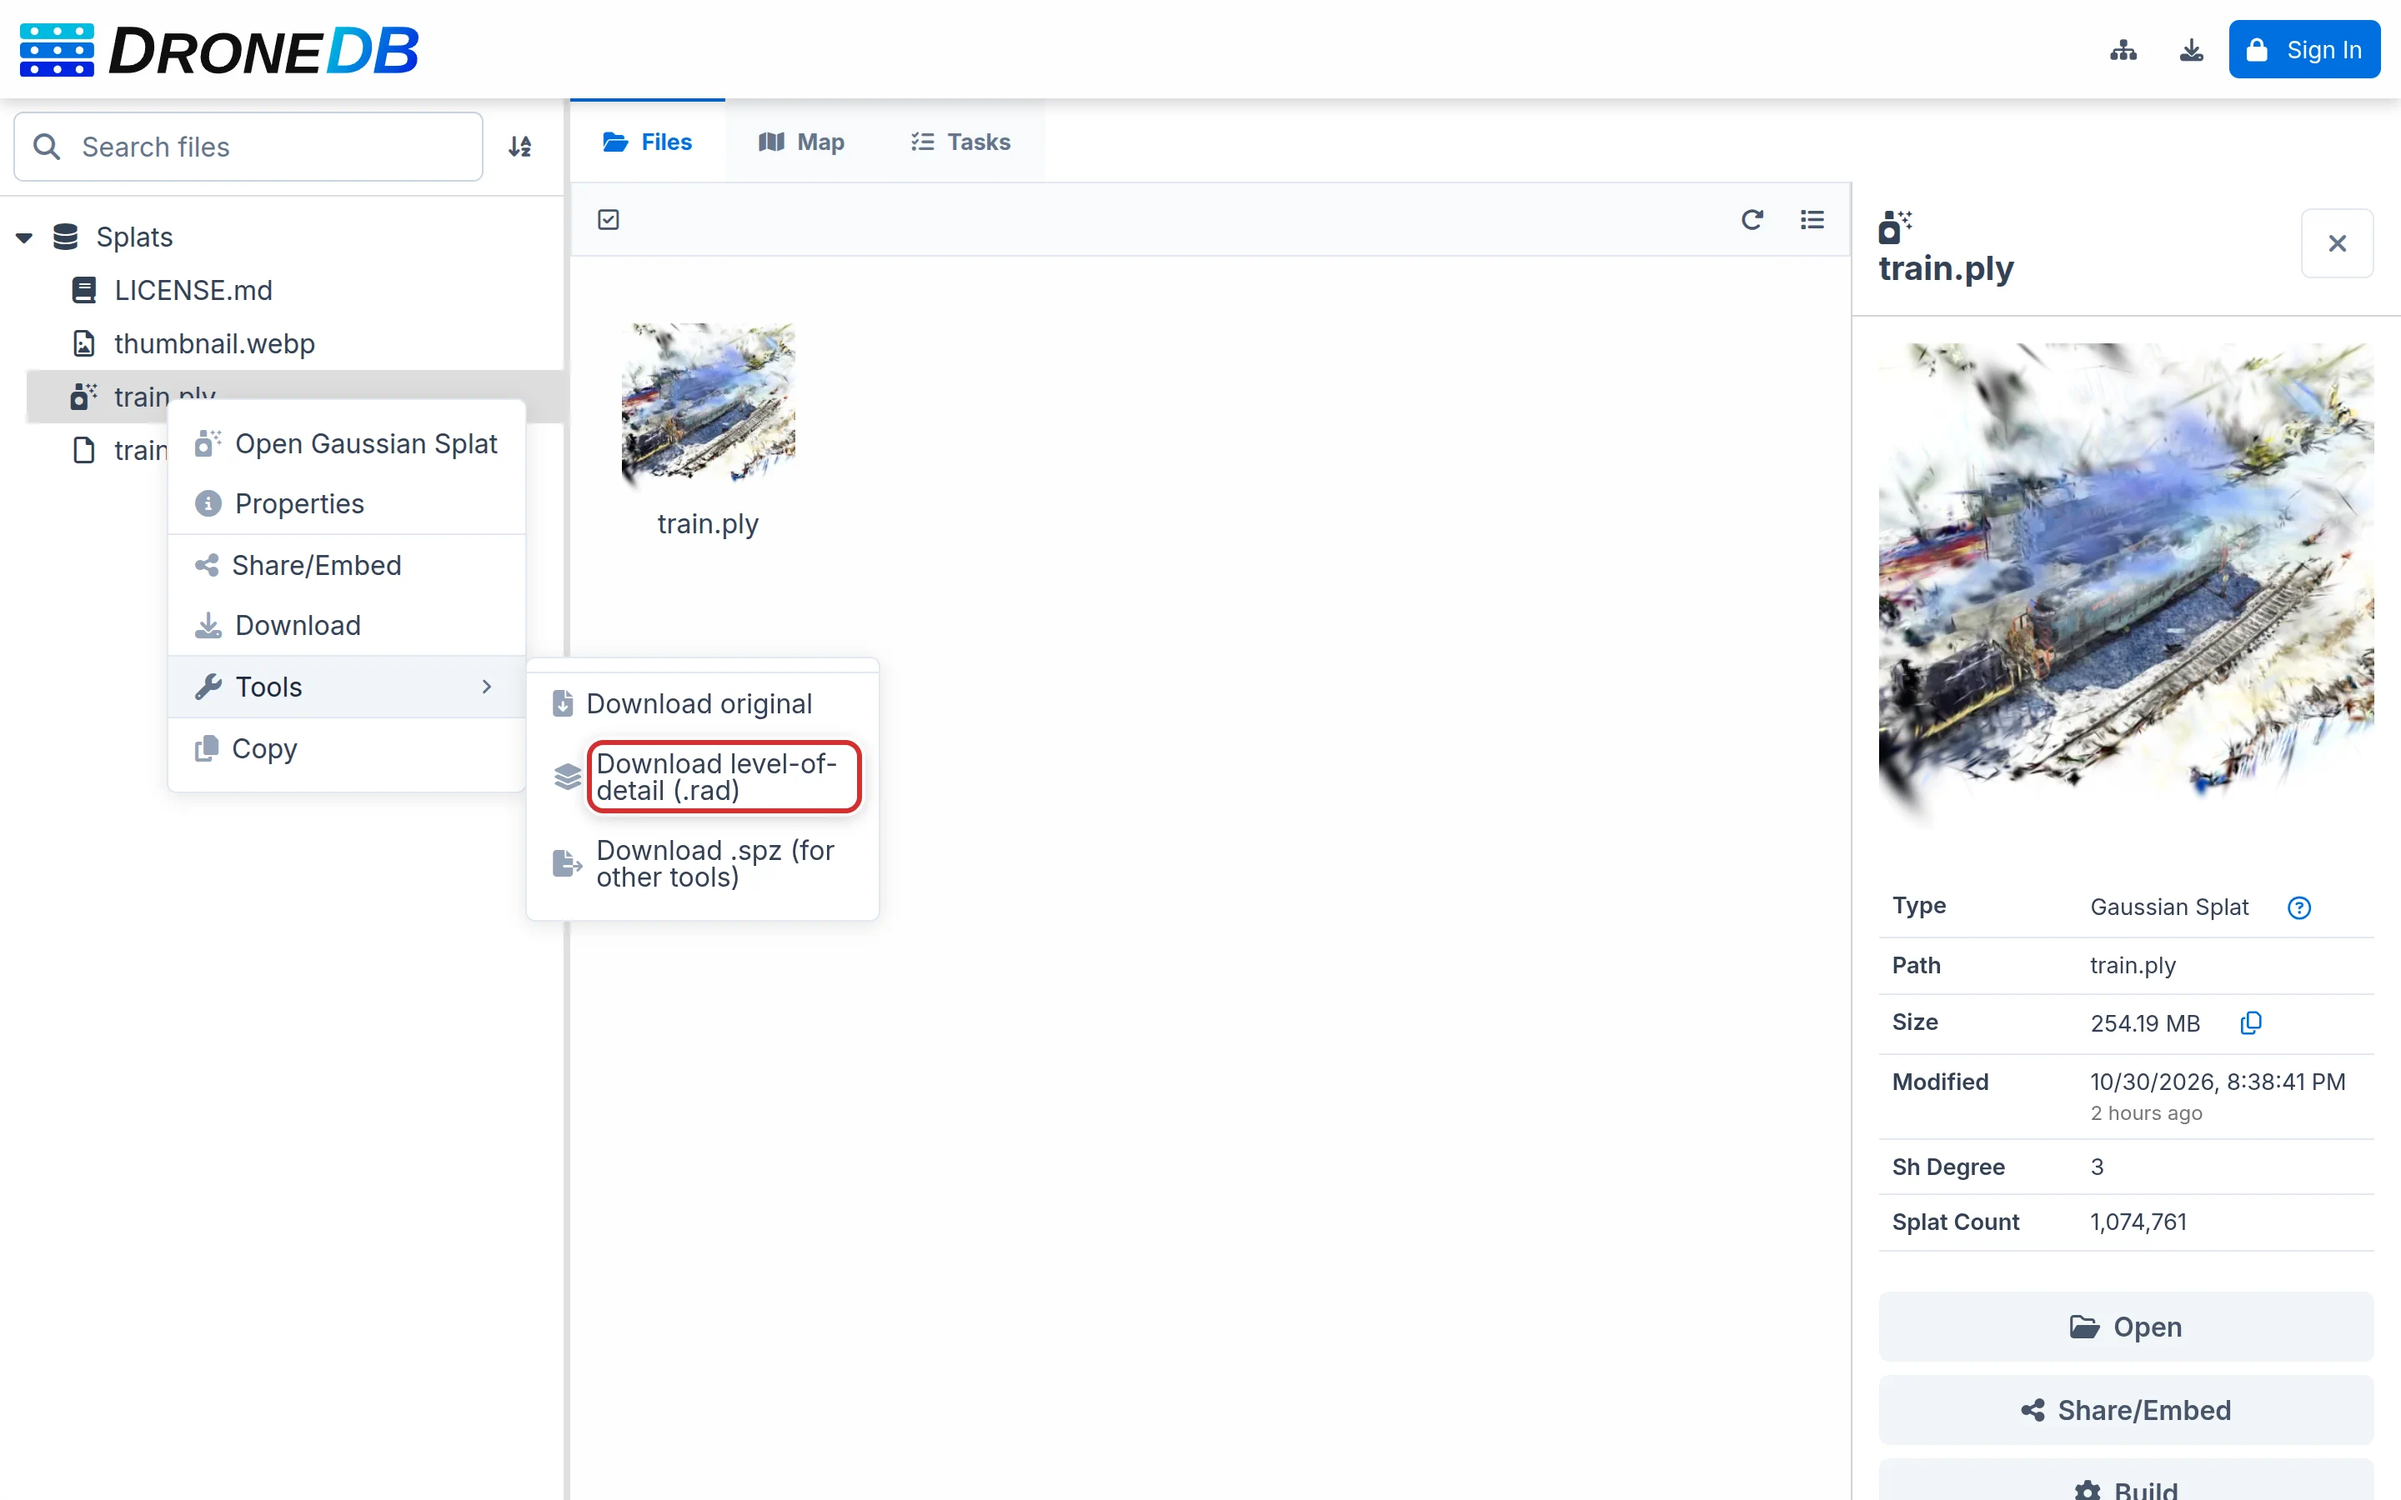
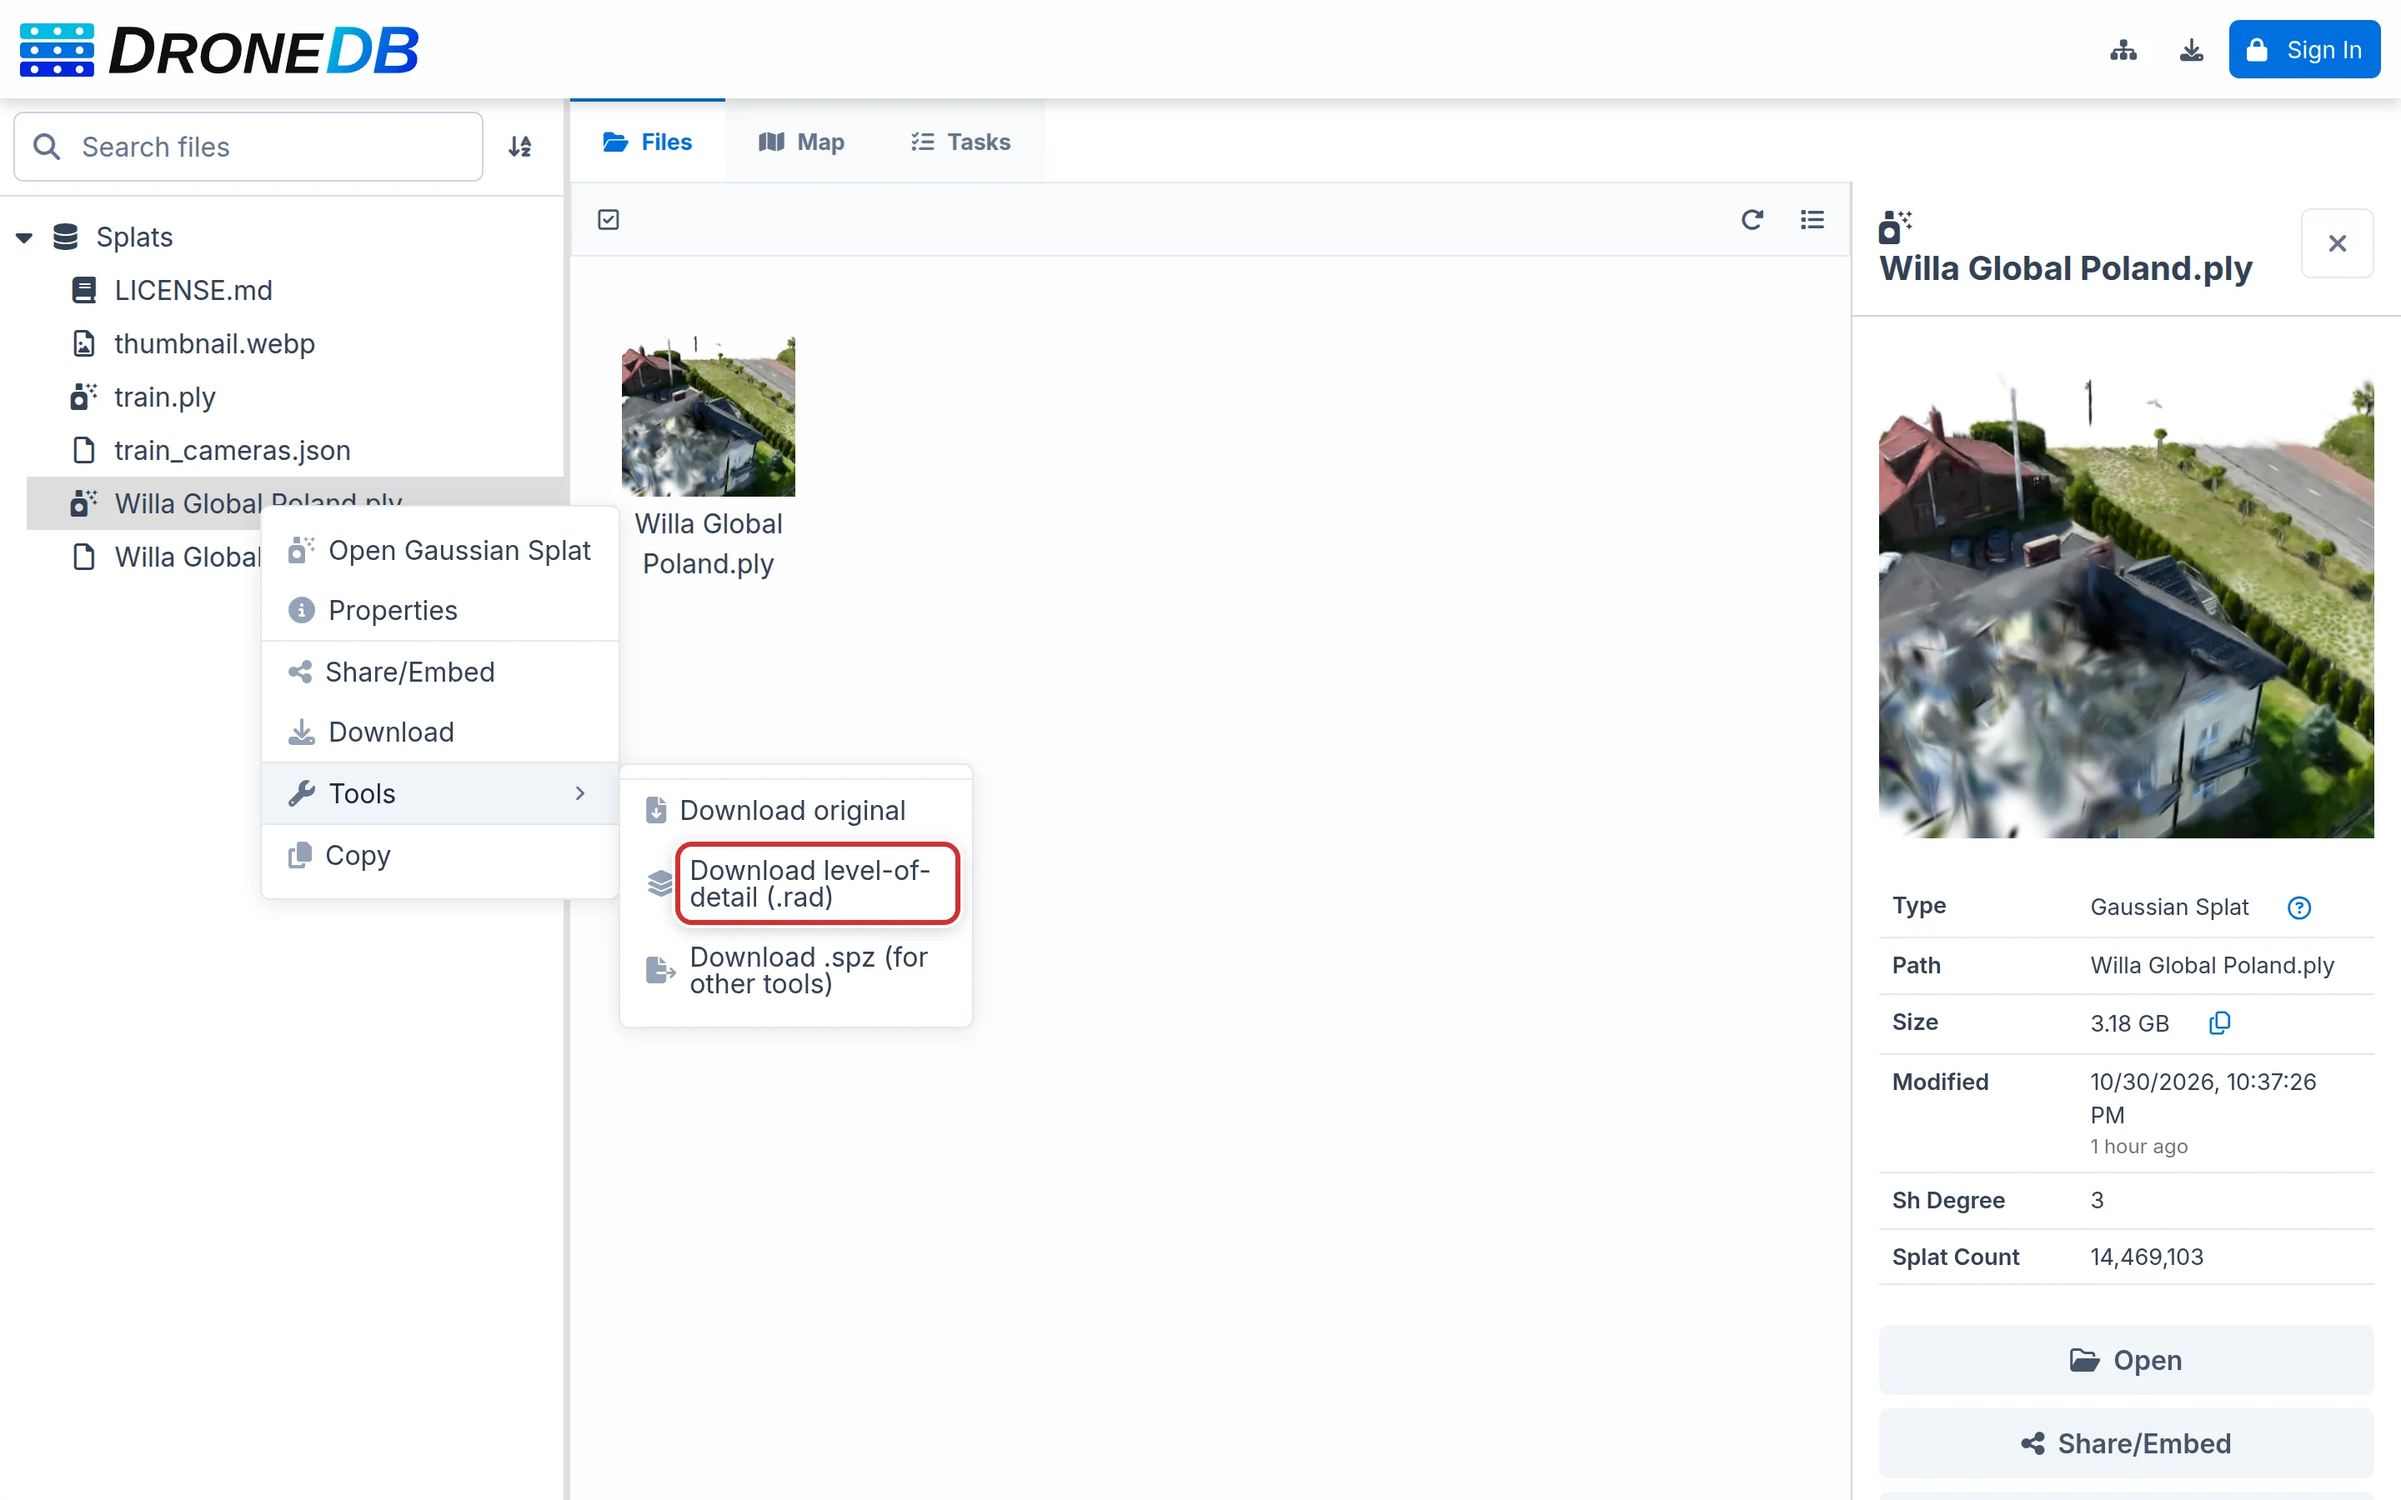
[DOC] The splat pages show Willa Global Poland.ply (14.5 million splats, odx/splats) instead of train.ply: Try it live, the live viewer, the screenshots of the viewer, its downloads and its measurements and pins; the local capture Registry mirrors it (a space in a path of datasets.txt is written "\ 

diff --git a/media-capture/local/README.md b/media-capture/local/README.md
@@ -108,8 +108,12 @@ data; the next `start` uses the same data and accounts.
 It only reads production. Run it again at any time: it sends only what is missing or changed. Give
 dataset names to copy only those, e.g. `./mirror-datasets.sh odx/splats`.
 
-odx/splats is copied in part: `train.ply`, its `train_cameras.json`, `LICENSE.md` and the dataset
-thumbnail. The other scenes are several GB each and the documentation does not use them.
+odx/splats is copied in part: `Willa Global Poland.ply` (3.4 GB, 14.5 million splats; the scene of
+the splat pages) and `train.ply` (the small splat of the pipeline test), each with its
+`_cameras.json`, `LICENSE.md` and the dataset thumbnail. The other scenes are large and the
+documentation does not use them. In `datasets.txt` a space in a path is written `\ `. The
+level-of-detail build of `Willa Global Poland.ply` takes about 6 minutes; `npm run reset-demo`
+copies it, with its build, into the demo organization on the server.
 
 ## Local-only data
 
